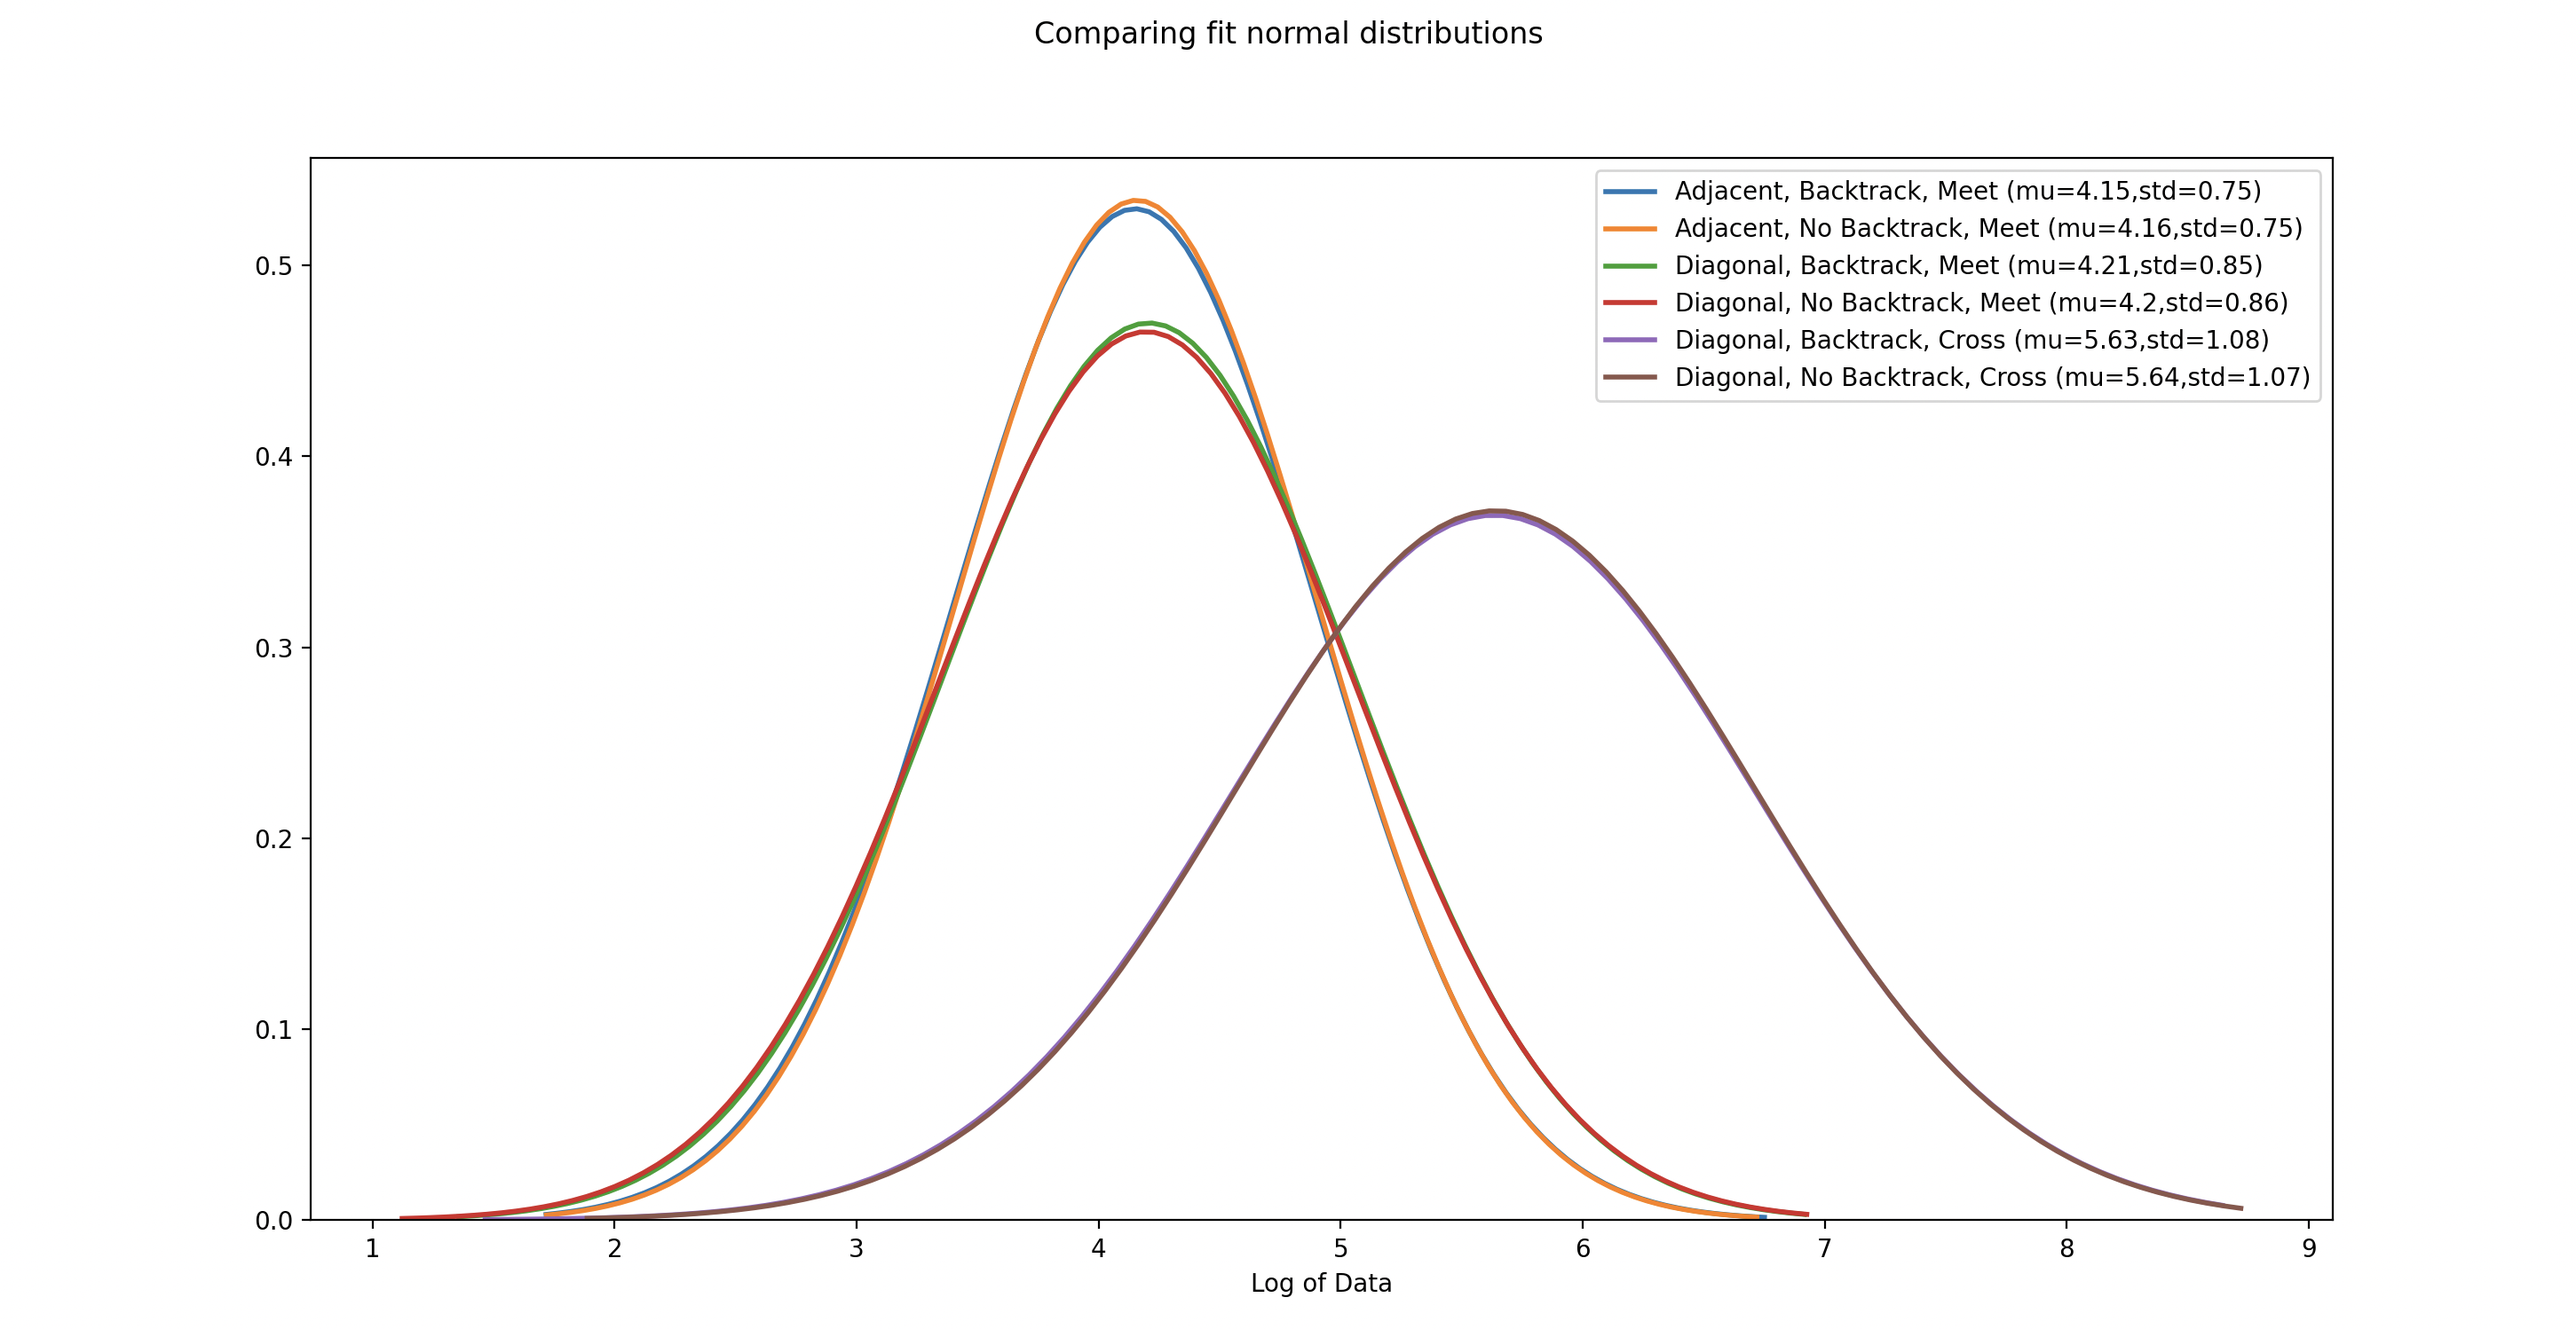
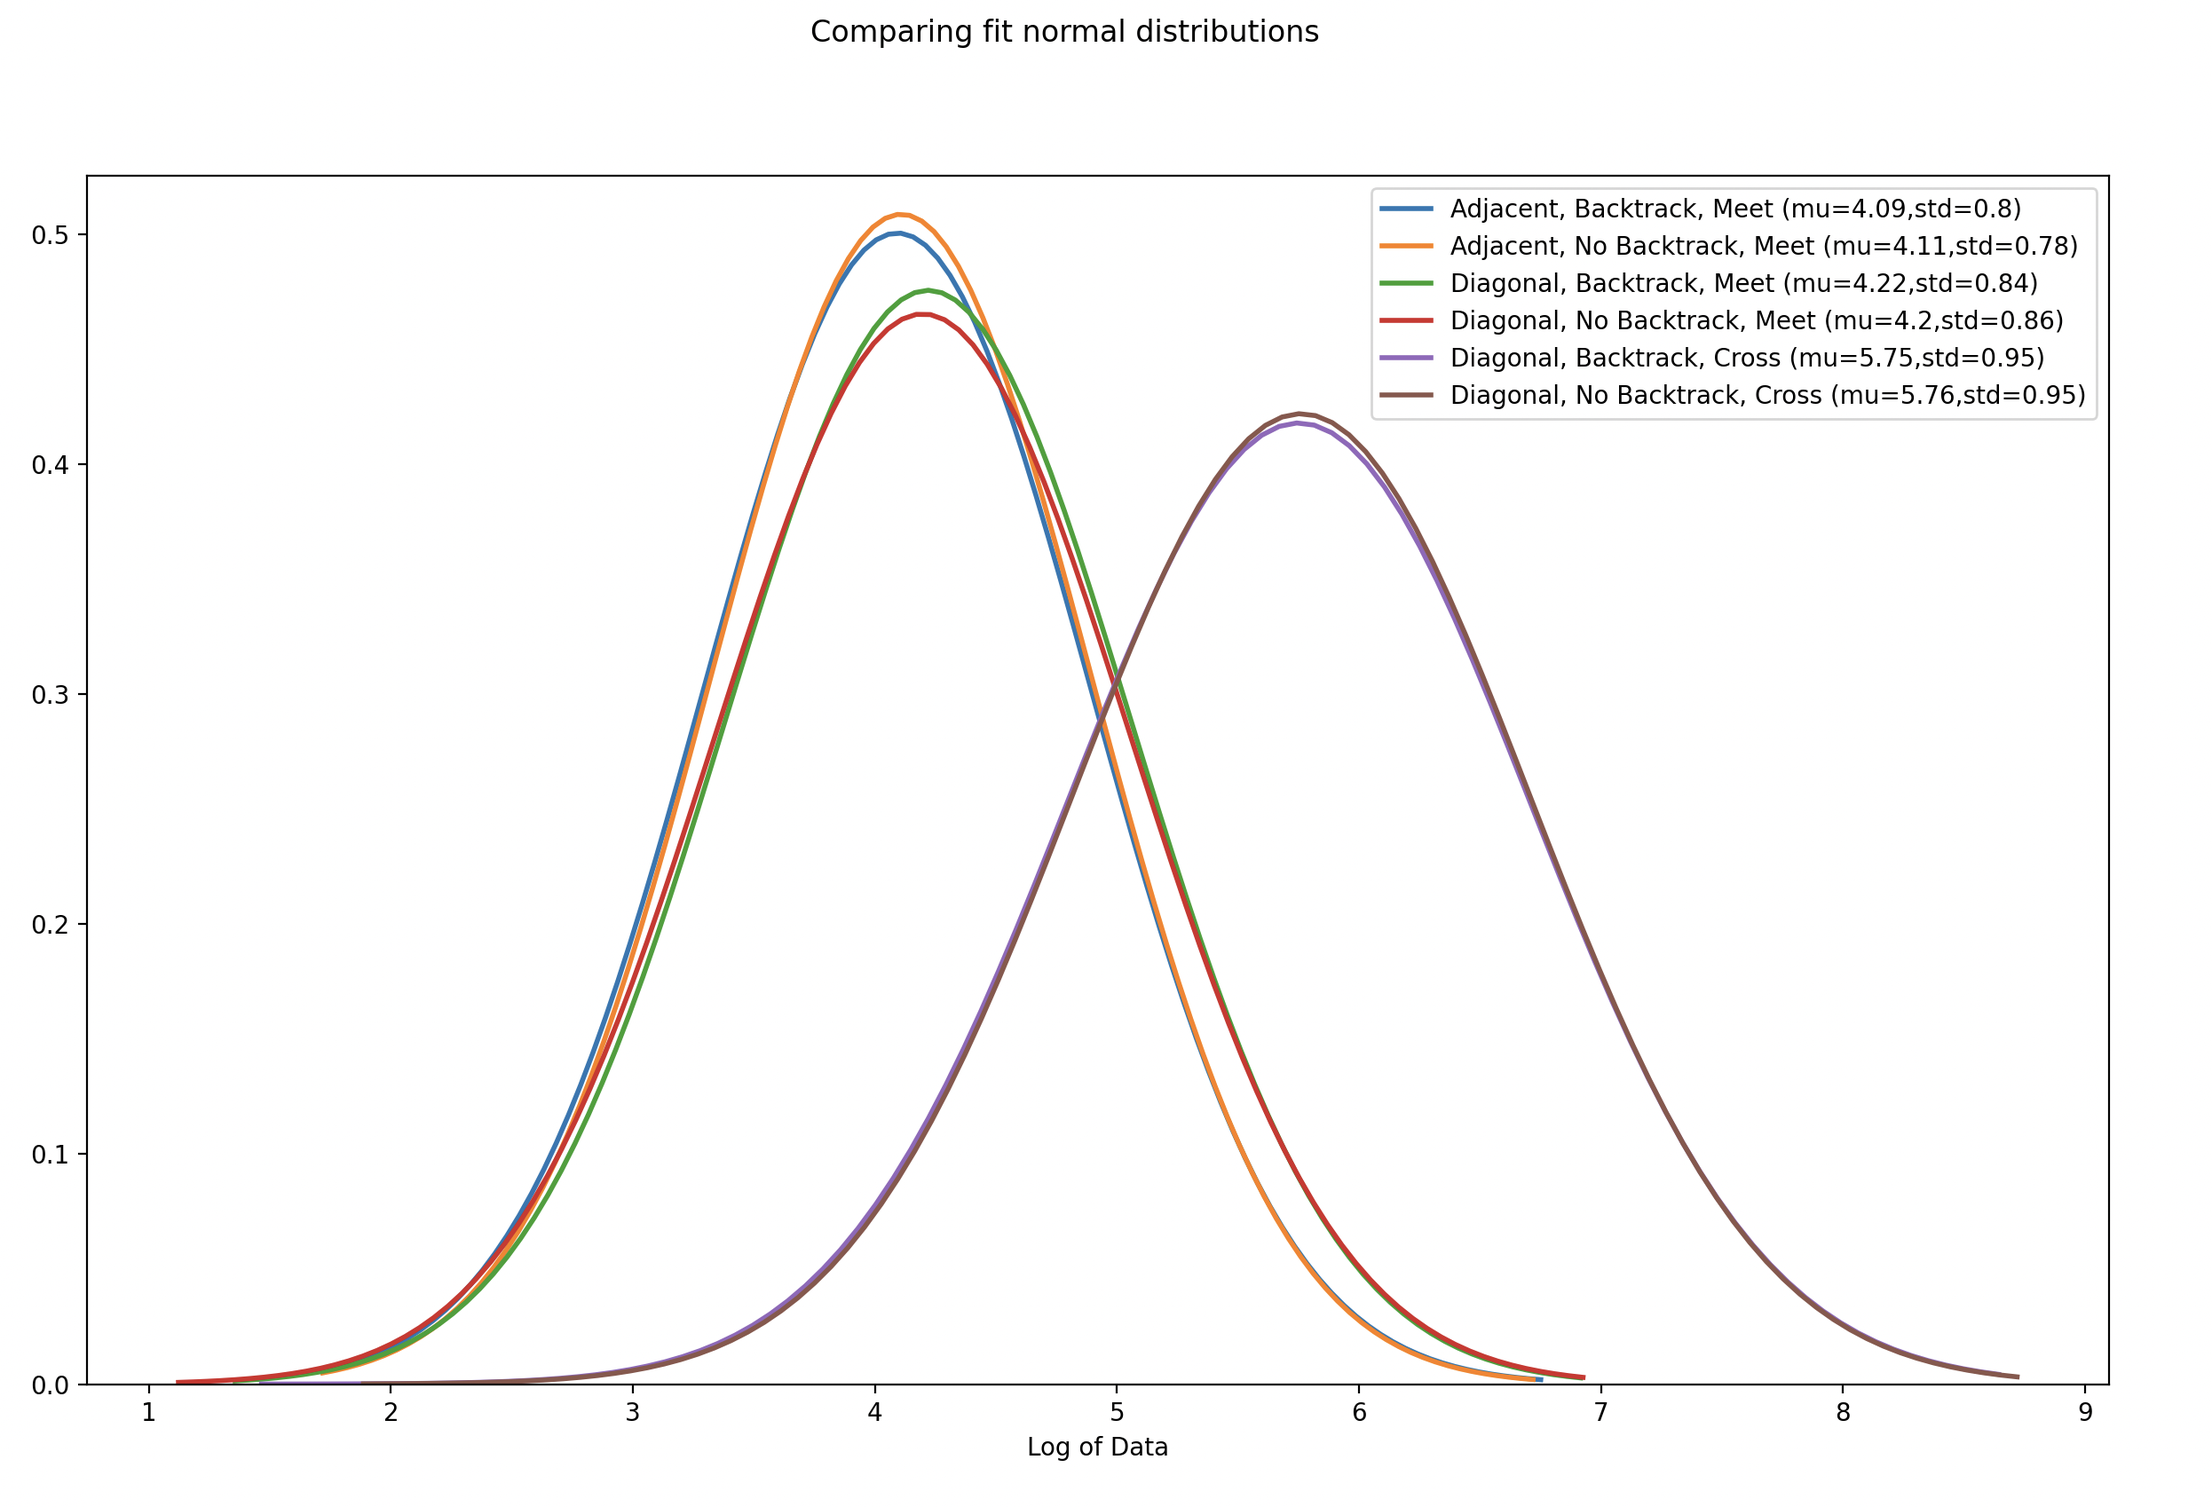
Updating results

diff --git a/ants/simulation.py b/ants/simulation.py
@@ -75,7 +75,7 @@ class ResultsAnalyzer:
     def force_log_norm(self):
 
         # Lognorm fit
-        shape, loc, scale = stats.lognorm.fit(self.data, floc=0)
+        shape, loc, scale = stats.lognorm.fit(self.data)
         _dist = stats.lognorm(shape, loc, scale)
         self.output_data['lognorm_kstest'] = stats.kstest(self.data, _dist.cdf)
         self.output_data['norm_mu'] = np.log(scale)

diff --git a/ants/main.py b/ants/main.py
@@ -6,6 +6,7 @@ import time
 import config as c
 import pandas as pd
 import random
+pd.set_option('display.max_columns', None)
 random.seed(1)
 
 
